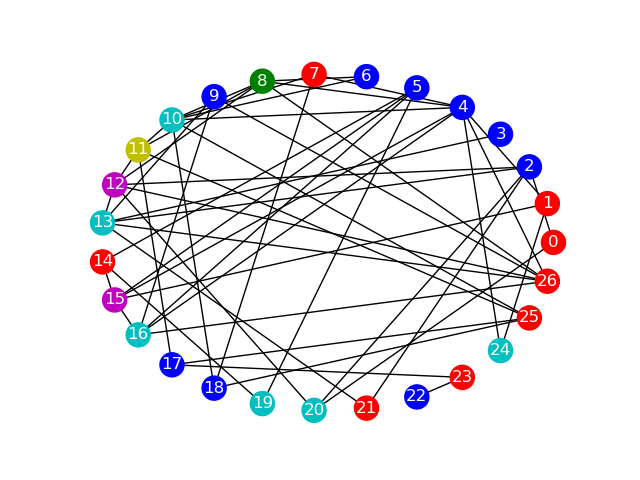
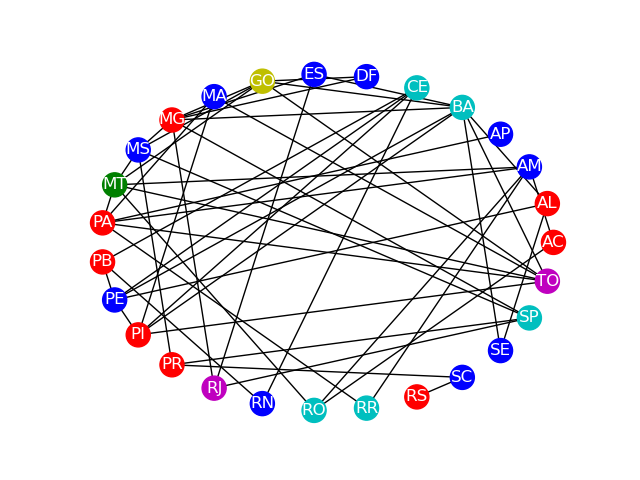
adição de labels no grafo Brasil

diff --git a/exercicios/exercicio_brasil.py b/exercicios/exercicio_brasil.py
@@ -82,6 +82,7 @@ if __name__ == "__main__":
         coloracao_para_png(matriz_adjacencia,
                            obs_max_cores.sequencia_vetor_cores[-1],
                            caminho+'/grafo_'+nome_exercicio,
+                           labels
                            )
     else:  
         sequencia_coloracao_para_gif(matriz_adjacencia, 
@@ -93,6 +94,7 @@ if __name__ == "__main__":
         coloracao_para_png(matriz_adjacencia,
                            obs_min_cores.sequencia_vetor_cores[-1],
                            caminho+'/grafo_min_cores_'+nome_exercicio,
+                           labels
                            )
 
         sequencia_coloracao_para_gif(matriz_adjacencia, 
@@ -104,6 +106,7 @@ if __name__ == "__main__":
         coloracao_para_png(matriz_adjacencia,
                            obs_max_cores.sequencia_vetor_cores[-1],
                            caminho+'/grafo_max_cores_'+nome_exercicio,
+                           labels
                            )
 
     graph_to_gif(matriz_adjacencia, caminho+'/combinacoes_cores_grafo_'+nome_exercicio,
